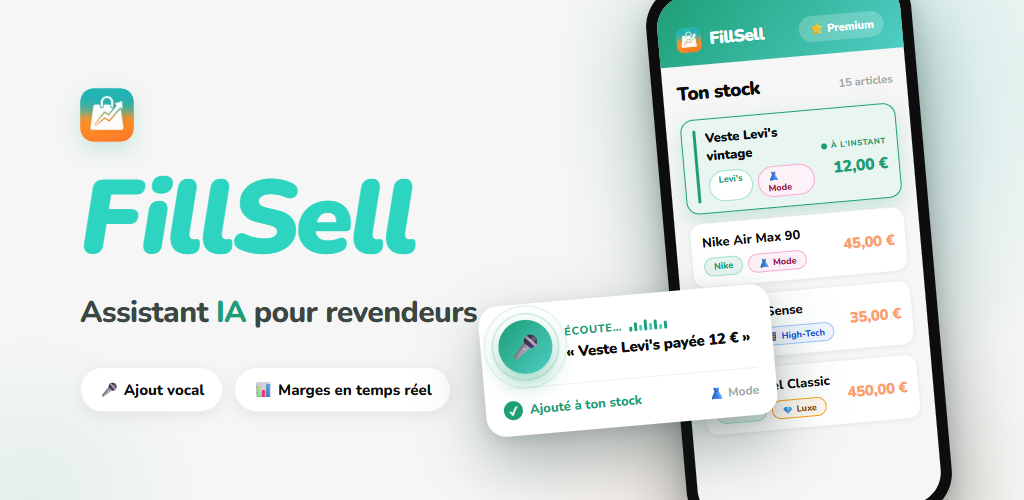
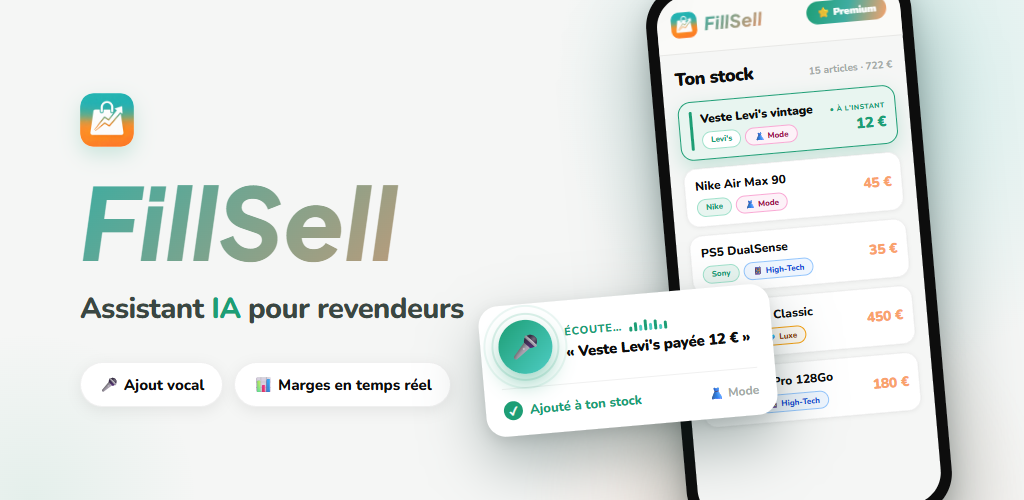
feat: feature graphic - typo app exacte + 5e card inventaire
- FillSell wordmark : Plus Jakarta Sans italic 800 gradient #3EACA0->E8956D (=header app)
- Phone topbar : meme style verre depoli + texte gradient identique
- Badge Premium : meme gradient que l app
- 5e carte : iPhone 13 Pro 128Go (inventaire)

diff --git a/marketing/feature-graphic.html b/marketing/feature-graphic.html
@@ -6,7 +6,7 @@
 <title>FillSell — Feature Graphic 1024×500</title>
 <link rel="preconnect" href="https://fonts.googleapis.com">
 <link rel="preconnect" href="https://fonts.gstatic.com" crossorigin>
-<link href="https://fonts.googleapis.com/css2?family=Nunito:ital,wght@0,200..1000;1,200..1000&display=swap" rel="stylesheet">
+<link href="https://fonts.googleapis.com/css2?family=Nunito:ital,wght@0,200..1000;1,200..1000&family=Plus+Jakarta+Sans:ital,wght@0,200..800;1,200..800&display=swap" rel="stylesheet">
 <style>
 *{margin:0;padding:0;box-sizing:border-box;}
 body{background:#e7e5df;display:flex;align-items:center;justify-content:center;min-height:100vh;}
@@ -22,13 +22,14 @@ body{background:#e7e5df;display:flex;align-items:center;justify-content:center;m
   <div style="position:absolute;width:340px;height:340px;left:-140px;bottom:-170px;border-radius:50%;background:radial-gradient(circle at 50% 50%, rgba(29,158,117,0.08), rgba(29,158,117,0) 70%);pointer-events:none;"></div>
 
   <!-- LEFT: brand block -->
-  <div style="position:absolute;left:80px;top:0;height:500px;width:500px;display:flex;flex-direction:column;justify-content:center;">
+  <div style="position:absolute;left:80px;top:0;height:500px;width:480px;display:flex;flex-direction:column;justify-content:center;">
 
-    <img src="../public/logo.png" alt="" style="width:54px;height:54px;border-radius:14px;box-shadow:0 8px 20px rgba(29,158,117,0.20);margin-bottom:30px;" />
+    <img src="../public/logo.png" alt="" style="width:54px;height:54px;border-radius:14px;box-shadow:0 8px 20px rgba(29,158,117,0.20);margin-bottom:28px;" />
 
-    <h1 style="font-size:104px;line-height:0.92;font-weight:900;font-style:italic;letter-spacing:-0.035em;color:#2DD4BF;margin-bottom:24px;">FillSell</h1>
+    <!-- wordmark : exactement comme le header de l'app (Plus Jakarta Sans, italic 800, gradient #3EACA0→#E8956D) -->
+    <h1 style="font-family:'Plus Jakarta Sans',sans-serif;font-size:100px;line-height:0.9;font-weight:800;font-style:italic;letter-spacing:0.2px;margin-bottom:24px;background:linear-gradient(135deg,#3EACA0 0%,#E8956D 100%);-webkit-background-clip:text;background-clip:text;-webkit-text-fill-color:transparent;">FillSell</h1>
 
-    <p style="font-size:30px;font-weight:800;letter-spacing:-0.02em;color:#3A4742;margin-bottom:34px;">Assistant <span style="color:#1D9E75;">IA</span> pour revendeurs</p>
+    <p style="font-family:'Nunito',sans-serif;font-size:29px;font-weight:800;letter-spacing:-0.02em;color:#3A4742;margin-bottom:34px;">Assistant <span style="color:#1D9E75;">IA</span> pour revendeurs</p>
 
     <!-- feature pills -->
     <div style="display:flex;align-items:center;gap:11px;">
@@ -41,71 +42,86 @@ body{background:#e7e5df;display:flex;align-items:center;justify-content:center;m
   <div style="position:absolute;right:92px;top:50%;transform:translateY(-50%) rotate(-5deg);width:266px;height:548px;border-radius:42px;background:#0D0D0D;padding:11px;box-shadow:0 36px 76px rgba(8,40,36,0.42), 0 8px 22px rgba(0,0,0,0.16);">
     <div style="width:100%;height:100%;border-radius:32px;overflow:hidden;background:#F5F6F5;position:relative;">
 
-      <!-- topbar -->
-      <div style="height:70px;background:linear-gradient(135deg,#1D9E75,#4ECDC4);display:flex;align-items:flex-end;padding:0 18px 13px;justify-content:space-between;">
-        <div style="display:flex;align-items:center;gap:8px;">
-          <img src="../public/logo.png" alt="" style="width:25px;height:25px;border-radius:7px;" />
-          <span style="font-weight:900;font-size:17px;color:#fff;letter-spacing:-0.035em;">FillSell</span>
+      <!-- topbar : même style que l'app (verre dépoli, texte gradient) -->
+      <div style="height:58px;background:rgba(250,250,248,0.97);border-bottom:1px solid rgba(0,0,0,0.07);display:flex;align-items:center;padding:0 14px;justify-content:space-between;backdrop-filter:blur(14px);">
+        <div style="display:flex;align-items:center;gap:7px;">
+          <img src="../public/logo.png" alt="" style="width:26px;height:26px;border-radius:8px;object-fit:cover;" />
+          <span style="font-family:'Plus Jakarta Sans',sans-serif;font-style:italic;font-weight:800;font-size:18px;letter-spacing:0.2px;background:linear-gradient(135deg,#3EACA0 0%,#E8956D 100%);-webkit-background-clip:text;background-clip:text;-webkit-text-fill-color:transparent;padding-right:4px;">FillSell</span>
         </div>
-        <span style="background:rgba(255,255,255,0.22);color:#fff;font-size:11px;font-weight:800;border-radius:99px;padding:5px 10px;">⭐ Premium</span>
+        <span style="background:linear-gradient(110deg,#1D9E75,#3EACA0,#F9A26C);color:#fff;font-size:10px;font-weight:900;border-radius:99px;padding:4px 10px;">⭐ Premium</span>
       </div>
 
       <!-- body -->
-      <div style="padding:15px 14px 0;">
-        <div style="display:flex;align-items:baseline;justify-content:space-between;margin-bottom:13px;">
-          <div style="font-size:19px;font-weight:900;letter-spacing:-0.03em;color:#0D0D0D;">Ton stock</div>
-          <div style="font-size:11px;font-weight:700;color:#A3A9A6;">15 articles</div>
+      <div style="padding:13px 13px 0;">
+        <div style="display:flex;align-items:baseline;justify-content:space-between;margin-bottom:11px;">
+          <div style="font-size:18px;font-weight:900;letter-spacing:-0.03em;color:#0D0D0D;">Ton stock</div>
+          <div style="font-size:10px;font-weight:700;color:#A3A9A6;">15 articles · 722 €</div>
         </div>
 
-        <div style="display:flex;flex-direction:column;gap:9px;">
+        <div style="display:flex;flex-direction:column;gap:8px;">
 
           <!-- NEW item, just added by voice -->
-          <div style="background:#E8F5F0;border:1.5px solid #1D9E75;border-radius:13px;padding:10px 11px;display:flex;align-items:center;gap:9px;box-shadow:0 8px 20px rgba(29,158,117,0.22);">
-            <div style="width:3px;align-self:stretch;border-radius:2px;background:#1D9E75;"></div>
+          <div style="background:#E8F5F0;border:1.5px solid #1D9E75;border-radius:13px;padding:9px 10px;display:flex;align-items:center;gap:8px;box-shadow:0 8px 20px rgba(29,158,117,0.22);">
+            <div style="width:3px;align-self:stretch;border-radius:2px;background:#1D9E75;flex-shrink:0;"></div>
             <div style="flex:1;min-width:0;">
-              <div style="font-size:13px;font-weight:900;color:#0D0D0D;letter-spacing:-0.01em;">Veste Levi's vintage</div>
-              <div style="display:flex;gap:5px;margin-top:6px;">
-                <span style="background:#fff;color:#1D9E75;border:1px solid #9FE1CB;border-radius:99px;padding:2px 9px;font-size:9px;font-weight:800;">Levi's</span>
-                <span style="background:#FDF2F8;color:#9D174D;border:1px solid #F9A8D4;border-radius:99px;padding:2px 9px;font-size:9px;font-weight:800;">👗 Mode</span>
+              <div style="font-size:12px;font-weight:900;color:#0D0D0D;letter-spacing:-0.01em;">Veste Levi's vintage</div>
+              <div style="display:flex;gap:4px;margin-top:5px;">
+                <span style="background:#fff;color:#1D9E75;border:1px solid #9FE1CB;border-radius:99px;padding:2px 8px;font-size:8px;font-weight:800;">Levi's</span>
+                <span style="background:#FDF2F8;color:#9D174D;border:1px solid #F9A8D4;border-radius:99px;padding:2px 8px;font-size:8px;font-weight:800;">👗 Mode</span>
               </div>
             </div>
-            <div style="text-align:right;">
-              <div style="display:inline-flex;align-items:center;gap:4px;font-size:8px;font-weight:800;color:#1D9E75;text-transform:uppercase;letter-spacing:0.06em;"><span style="width:6px;height:6px;border-radius:50%;background:#1D9E75;display:inline-block;"></span>À l'instant</div>
-              <div style="font-size:16px;font-weight:900;color:#1D9E75;letter-spacing:-0.02em;margin-top:2px;">12,00 €</div>
+            <div style="text-align:right;flex-shrink:0;">
+              <div style="font-size:7px;font-weight:800;color:#1D9E75;text-transform:uppercase;letter-spacing:0.06em;">● À l'instant</div>
+              <div style="font-size:15px;font-weight:900;color:#1D9E75;letter-spacing:-0.02em;margin-top:2px;">12 €</div>
             </div>
           </div>
 
-          <div style="background:#fff;border:1px solid rgba(0,0,0,0.06);border-radius:13px;padding:10px 11px;display:flex;align-items:center;gap:9px;box-shadow:0 1px 4px rgba(0,0,0,0.05);">
+          <!-- item 2 -->
+          <div style="background:#fff;border:1px solid rgba(0,0,0,0.06);border-radius:13px;padding:9px 10px;display:flex;align-items:center;gap:8px;box-shadow:0 1px 4px rgba(0,0,0,0.05);">
             <div style="flex:1;min-width:0;">
-              <div style="font-size:13px;font-weight:800;color:#0D0D0D;">Nike Air Max 90</div>
-              <div style="display:flex;gap:5px;margin-top:6px;">
-                <span style="background:#E8F5F0;color:#1D9E75;border:1px solid #9FE1CB;border-radius:99px;padding:2px 9px;font-size:9px;font-weight:800;">Nike</span>
-                <span style="background:#FDF2F8;color:#9D174D;border:1px solid #F9A8D4;border-radius:99px;padding:2px 9px;font-size:9px;font-weight:800;">👗 Mode</span>
+              <div style="font-size:12px;font-weight:800;color:#0D0D0D;">Nike Air Max 90</div>
+              <div style="display:flex;gap:4px;margin-top:5px;">
+                <span style="background:#E8F5F0;color:#1D9E75;border:1px solid #9FE1CB;border-radius:99px;padding:2px 8px;font-size:8px;font-weight:800;">Nike</span>
+                <span style="background:#FDF2F8;color:#9D174D;border:1px solid #F9A8D4;border-radius:99px;padding:2px 8px;font-size:8px;font-weight:800;">👗 Mode</span>
               </div>
             </div>
-            <div style="font-size:15px;font-weight:900;color:#F9A26C;letter-spacing:-0.02em;">45,00 €</div>
+            <div style="font-size:14px;font-weight:900;color:#F9A26C;letter-spacing:-0.02em;flex-shrink:0;">45 €</div>
           </div>
 
-          <div style="background:#fff;border:1px solid rgba(0,0,0,0.06);border-radius:13px;padding:10px 11px;display:flex;align-items:center;gap:9px;box-shadow:0 1px 4px rgba(0,0,0,0.05);">
+          <!-- item 3 -->
+          <div style="background:#fff;border:1px solid rgba(0,0,0,0.06);border-radius:13px;padding:9px 10px;display:flex;align-items:center;gap:8px;box-shadow:0 1px 4px rgba(0,0,0,0.05);">
             <div style="flex:1;min-width:0;">
-              <div style="font-size:13px;font-weight:800;color:#0D0D0D;">PS5 DualSense</div>
-              <div style="display:flex;gap:5px;margin-top:6px;">
-                <span style="background:#E8F5F0;color:#1D9E75;border:1px solid #9FE1CB;border-radius:99px;padding:2px 9px;font-size:9px;font-weight:800;">Sony</span>
-                <span style="background:#EFF6FF;color:#1D4ED8;border:1px solid #93C5FD;border-radius:99px;padding:2px 9px;font-size:9px;font-weight:800;">📱 High-Tech</span>
+              <div style="font-size:12px;font-weight:800;color:#0D0D0D;">PS5 DualSense</div>
+              <div style="display:flex;gap:4px;margin-top:5px;">
+                <span style="background:#E8F5F0;color:#1D9E75;border:1px solid #9FE1CB;border-radius:99px;padding:2px 8px;font-size:8px;font-weight:800;">Sony</span>
+                <span style="background:#EFF6FF;color:#1D4ED8;border:1px solid #93C5FD;border-radius:99px;padding:2px 8px;font-size:8px;font-weight:800;">📱 High-Tech</span>
               </div>
             </div>
-            <div style="font-size:15px;font-weight:900;color:#F9A26C;letter-spacing:-0.02em;">35,00 €</div>
+            <div style="font-size:14px;font-weight:900;color:#F9A26C;letter-spacing:-0.02em;flex-shrink:0;">35 €</div>
           </div>
 
-          <div style="background:#fff;border:1px solid rgba(0,0,0,0.06);border-radius:13px;padding:10px 11px;display:flex;align-items:center;gap:9px;box-shadow:0 1px 4px rgba(0,0,0,0.05);">
+          <!-- item 4 -->
+          <div style="background:#fff;border:1px solid rgba(0,0,0,0.06);border-radius:13px;padding:9px 10px;display:flex;align-items:center;gap:8px;box-shadow:0 1px 4px rgba(0,0,0,0.05);">
             <div style="flex:1;min-width:0;">
-              <div style="font-size:13px;font-weight:800;color:#0D0D0D;">Sac Chanel Classic</div>
-              <div style="display:flex;gap:5px;margin-top:6px;">
-                <span style="background:#E8F5F0;color:#1D9E75;border:1px solid #9FE1CB;border-radius:99px;padding:2px 9px;font-size:9px;font-weight:800;">Chanel</span>
-                <span style="background:#FDF8F0;color:#92400E;border:1px solid #F59E0B;border-radius:99px;padding:2px 9px;font-size:9px;font-weight:800;">💎 Luxe</span>
+              <div style="font-size:12px;font-weight:800;color:#0D0D0D;">Sac Chanel Classic</div>
+              <div style="display:flex;gap:4px;margin-top:5px;">
+                <span style="background:#E8F5F0;color:#1D9E75;border:1px solid #9FE1CB;border-radius:99px;padding:2px 8px;font-size:8px;font-weight:800;">Chanel</span>
+                <span style="background:#FDF8F0;color:#92400E;border:1px solid #F59E0B;border-radius:99px;padding:2px 8px;font-size:8px;font-weight:800;">💎 Luxe</span>
               </div>
             </div>
-            <div style="font-size:15px;font-weight:900;color:#F9A26C;letter-spacing:-0.02em;">450,00 €</div>
+            <div style="font-size:14px;font-weight:900;color:#F9A26C;letter-spacing:-0.02em;flex-shrink:0;">450 €</div>
+          </div>
+
+          <!-- item 5 : inventaire -->
+          <div style="background:#fff;border:1px solid rgba(0,0,0,0.06);border-radius:13px;padding:9px 10px;display:flex;align-items:center;gap:8px;box-shadow:0 1px 4px rgba(0,0,0,0.05);">
+            <div style="flex:1;min-width:0;">
+              <div style="font-size:12px;font-weight:800;color:#0D0D0D;">iPhone 13 Pro 128Go</div>
+              <div style="display:flex;gap:4px;margin-top:5px;">
+                <span style="background:#E8F5F0;color:#1D9E75;border:1px solid #9FE1CB;border-radius:99px;padding:2px 8px;font-size:8px;font-weight:800;">Apple</span>
+                <span style="background:#EFF6FF;color:#1D4ED8;border:1px solid #93C5FD;border-radius:99px;padding:2px 8px;font-size:8px;font-weight:800;">📱 High-Tech</span>
+              </div>
+            </div>
+            <div style="font-size:14px;font-weight:900;color:#F9A26C;letter-spacing:-0.02em;flex-shrink:0;">180 €</div>
           </div>
 
         </div>